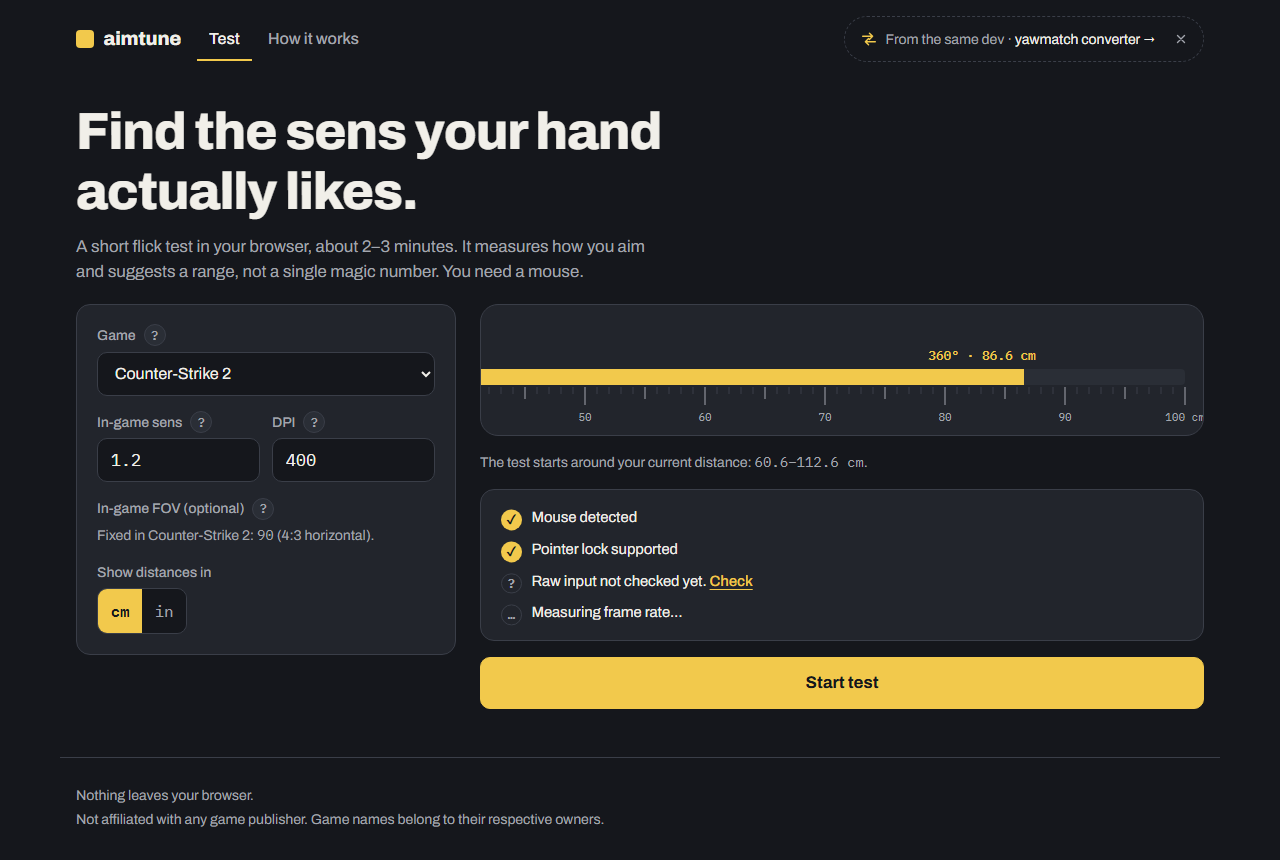
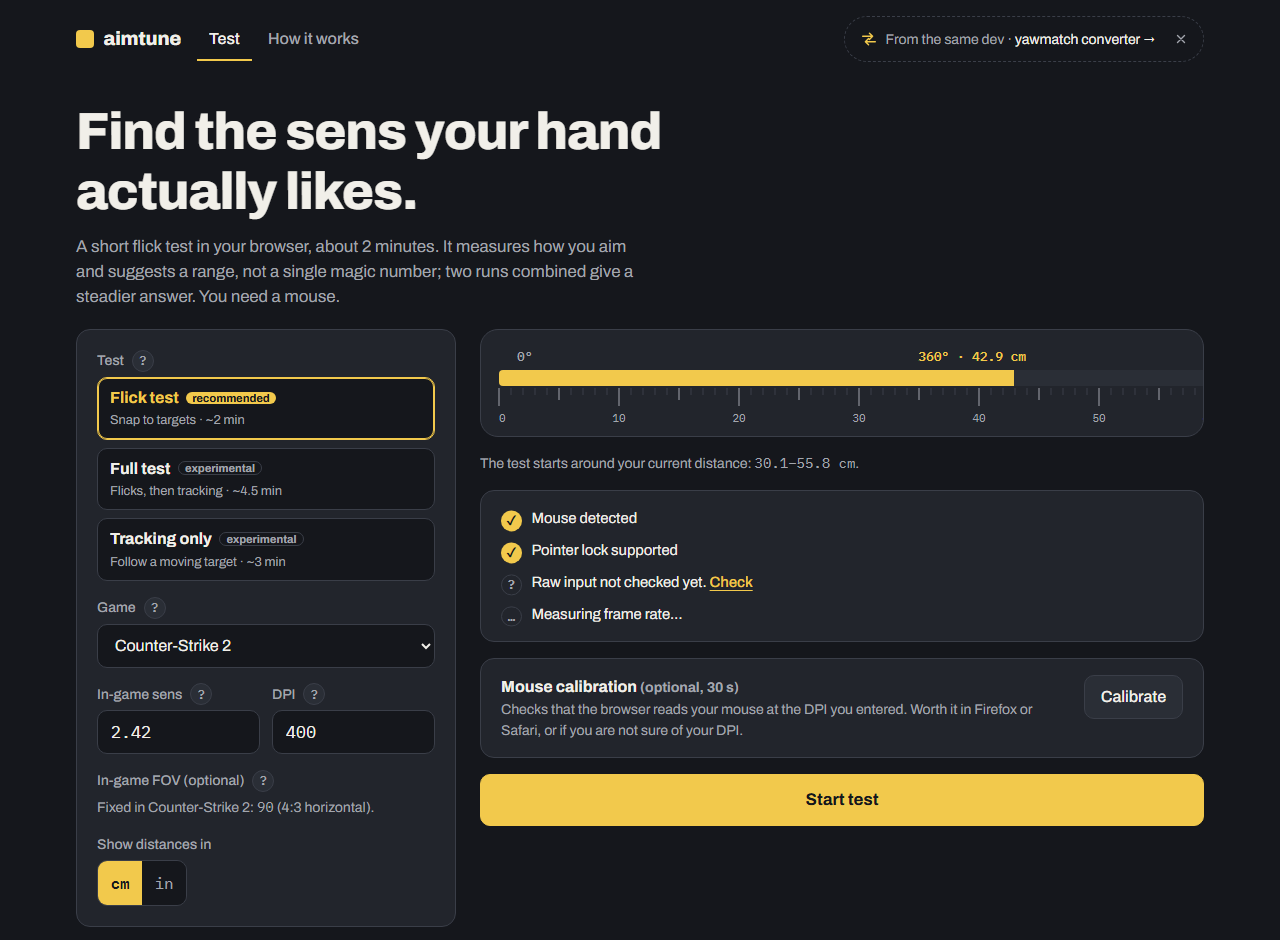
docs: refresh screenshots and describe calibration, feedback and storage

diff --git a/src/ui/HowItWorks.svelte b/src/ui/HowItWorks.svelte
@@ -122,8 +122,10 @@
   <section>
     <h2>Privacy</h2>
     <p>
-      Everything runs in your browser. Nothing is uploaded; the only thing stored is what you choose to save, in your
-      browser's local storage. A result link carries the numbers in the address itself.
+      Everything runs in your browser and nothing is uploaded. Your browser's local storage keeps your unit choice, your
+      last ten results (so runs can be combined), a mouse calibration if you made one, and the profile if you save it.
+      A result link carries the numbers in the address itself, and the feedback form on GitHub only shares what you
+      submit there.
     </p>
   </section>
 

diff --git a/README.md b/README.md
@@ -10,9 +10,9 @@ Find a mouse sensitivity range that fits your hand, with a short flick test in y
 
 No install, no account. Open it on a computer with a mouse; the test takes about 2–3 minutes.
 
-![Setup screen: game, sens and DPI on the left, your current distance per 360° on a ruler and browser checks on the right](docs/screenshots/setup.png)
+![Setup screen: test choice, game, sens and DPI on the left; your current distance per 360° on a ruler, browser checks and an optional mouse calibration on the right](docs/screenshots/setup.png)
 
-![Results screen: the recommended range as a yellow band on the ruler next to your current distance, and the same range in the game's sens](docs/screenshots/results.png)
+![Results screen: the recommended range as a yellow band on the ruler next to your current distance, the same range in the game's sens, an A/B feel test and links to convert, save, share or give feedback](docs/screenshots/results.png)
 
 ## What it does
 
@@ -62,6 +62,9 @@ flicks are not a real match. Treat the result as a starting point.
 - The full test blends the two parts' results on a log scale rather than mixing their scores: a sens 25% off
   costs flicks far more than tracking, so a mixed score would ignore the chosen weights. Tracking's weight is scaled
   by the share of its rounds that were decided, so an inconclusive tracking part does not move the result.
+- An optional calibration (slide the mouse along an A4 sheet) checks that the browser reports the counts your
+  DPI should give; browsers without raw input can be off because of display scaling or pointer speed. The
+  correction only affects turning in the test, not the in-game sens conversion.
 - Tracking runs last five seconds, ease in from rest, and leave the first half second unscored, since that part
   mostly measures reaction time.
 - All procedures are checked against simulated players (flickers, trackers, and players whose flick and tracking
@@ -71,14 +74,16 @@ flicks are not a real match. Treat the result as a starting point.
 
 - Prefill the setup: `?game=cs2&sens=1.2&dpi=800`
 - Shared results carry the numbers in the address: `?lo=38&hi=41.3&cur=42.9&game=cs2&dpi=400`
+- "Tell us if it was right" opens a prefilled GitHub issue form; nothing is sent until you submit it there.
 - Game data (yaw, FOV) is loaded at runtime from yawmatch's
   [`games.json`](https://umut-hope.github.io/Yaw-Match/data/games.json); nothing is copied into this repo.
 
 ## Privacy
 
-Everything runs in your browser. There is no backend, no account and no analytics. The only things stored are
-your unit choice and, if you press *Save to profile*, your game, sens and DPI in your browser's local storage
-(`shared:profile`, shared with yawmatch).
+Everything runs in your browser. There is no backend, no account and no analytics. Your browser's local storage
+keeps your unit choice, your last ten results (to combine runs), a mouse calibration if you made one, and, if you
+press *Save to profile*, your game, sens and DPI (`shared:profile`, shared with yawmatch). Nothing of it leaves
+your browser; the feedback form on GitHub only shares what you submit there.
 
 ## Development
 
